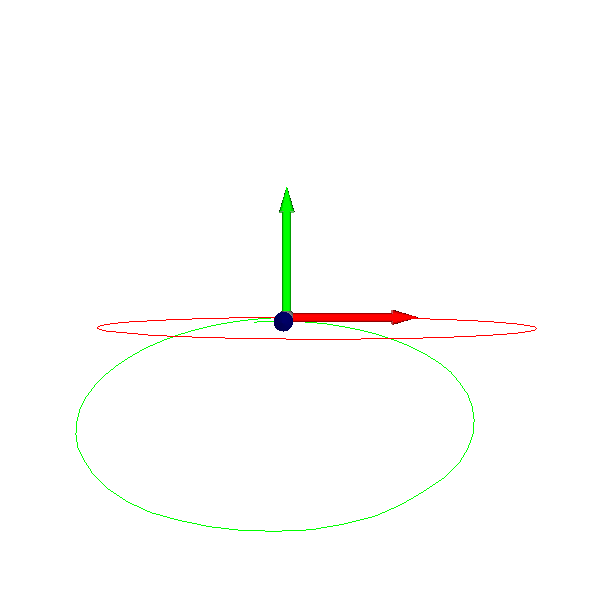
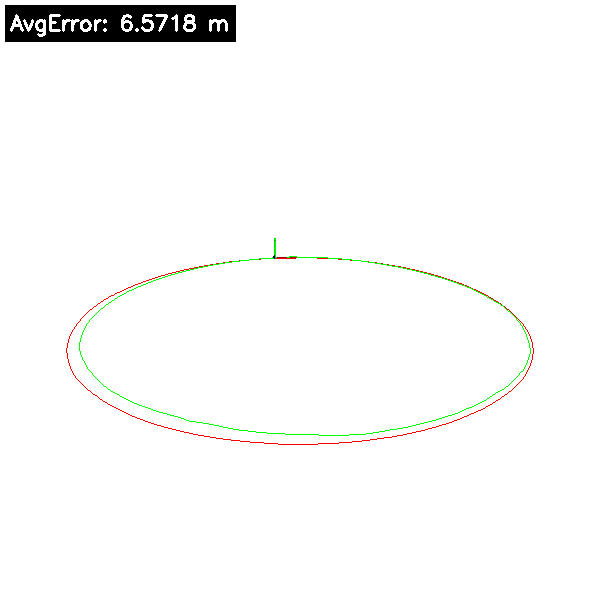
Fixed avg error display

diff --git a/main.py b/main.py
@@ -119,7 +119,7 @@ class TrajPlotter(object):
             self.gt_pcd.paint_uniform_color([1, 0, 0])
             self.vis.add_geometry(self.gt_pcd)
 
-        # add coordinate frame at origin; scale according to scene extents
+        # Add coordinate frame at origin; scale according to scene extents
         if len(self.est_points) + len(self.gt_points) > 0:
             pts = np.vstack(self.est_points + self.gt_points)
             span = np.max(pts, axis=0) - np.min(pts, axis=0)
@@ -130,25 +130,20 @@ class TrajPlotter(object):
         mesh = o3d.geometry.TriangleMesh.create_coordinate_frame(size=size, origin=[0, 0, 0])
         self.vis.add_geometry(mesh)
 
-        # 3D label for average error (if available)
-        try:
-            # place label slightly above origin
-            self.vis.add_3d_label(np.array([0.0, 0.0, 0.5]), f"AvgErr: {avg_error:.4f} m")
-            self.vis.add_2d_label((10, 30), f"AvgError: {avg_error:.4f} m")
-        except Exception:
-            # older Open3D may not support labels; ignore
-            pass
-
-        # update view
+        # Update view
         self.vis.poll_events()
         self.vis.update_renderer()
         
-        # capture screen as image for cv2.imshow
+        # Capture screen as image for cv2.imshow
         img = self.vis.capture_screen_float_buffer(do_render=True)
         img_np = (np.asarray(img) * 255).astype(np.uint8)
         img_bgr = cv2.cvtColor(img_np, cv2.COLOR_RGB2BGR)
+
+        # Add background rectangle for text
+        (text_w, text_h), _ = cv2.getTextSize(f"AvgError: {avg_error:.4f} m", cv2.FONT_HERSHEY_SIMPLEX, 0.7, 2)
+        cv2.rectangle(img_bgr, (5, 5), (15 + text_w, 25 + text_h), (0, 0, 0), -1)
         
-        # add error text overlay
+        # Add error text overlay
         cv2.putText(img_bgr, f"AvgError: {avg_error:.4f} m", (10, 30), cv2.FONT_HERSHEY_SIMPLEX, 0.7, (255, 255, 255), 2)
 
         return img_bgr
@@ -181,7 +176,7 @@ def run(args):
 
     vo = VisualOdometry(detector, matcher, loader.cam)
     for i, img in enumerate(loader):
-        if i % 50 == 0:
+        if i % 10 == 0:
             gt_pose = loader.get_cur_pose()
             R, t = vo.update(img, absscale.update(gt_pose))
             # R, t = vo.update(img, 1.0)
